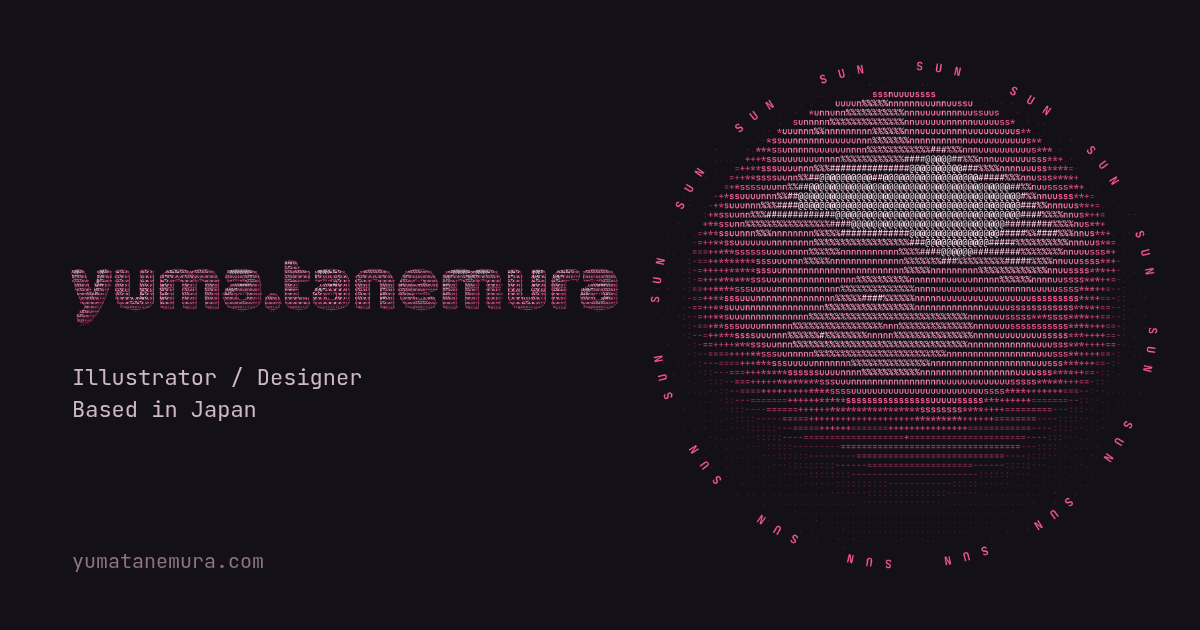
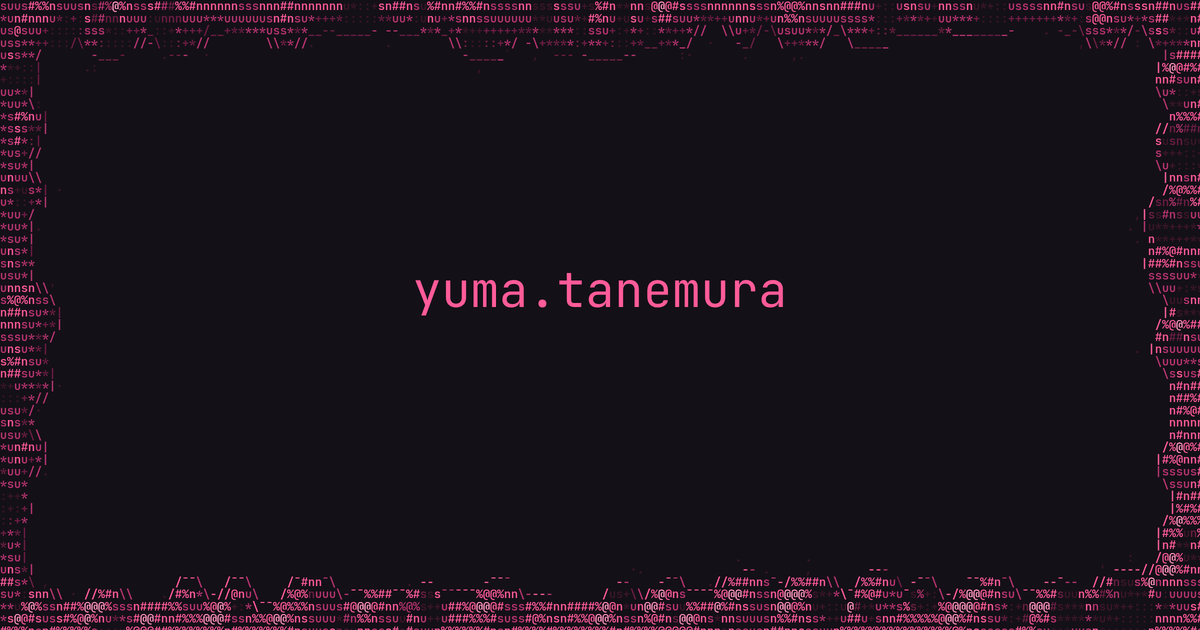
Update the share image.

diff --git a/index.html b/index.html
@@ -17,7 +17,7 @@
   <meta property="og:image" content="https://yumatanemura.com/assets/og.png">
   <meta property="og:image:width" content="1200">
   <meta property="og:image:height" content="630">
-  <meta property="og:image:alt" content="yuma.tanemura — an ASCII sun">
+  <meta property="og:image:alt" content="yuma.tanemura on a flesh TV">
   <meta name="twitter:card" content="summary_large_image">
   <script type="application/ld+json">
   {
